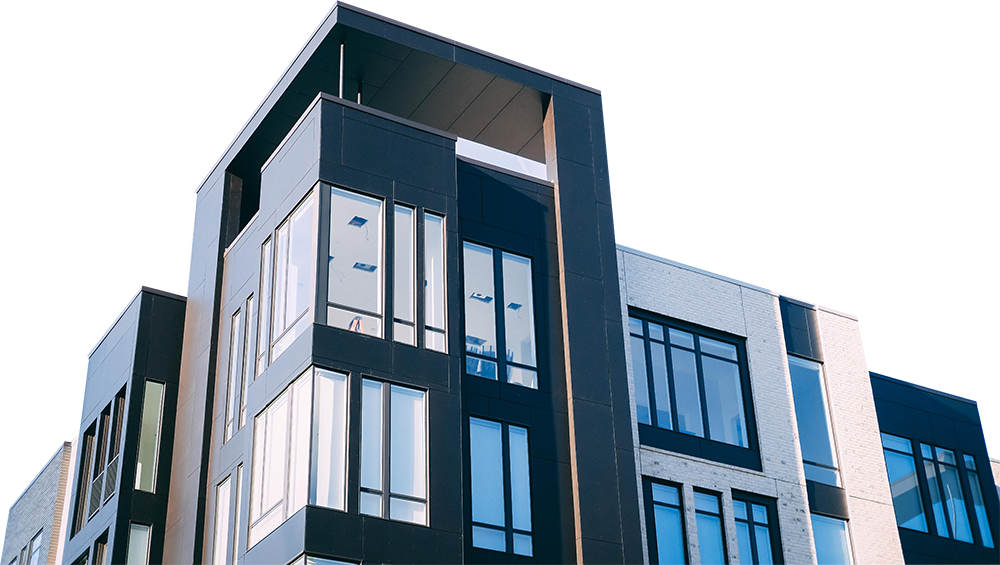
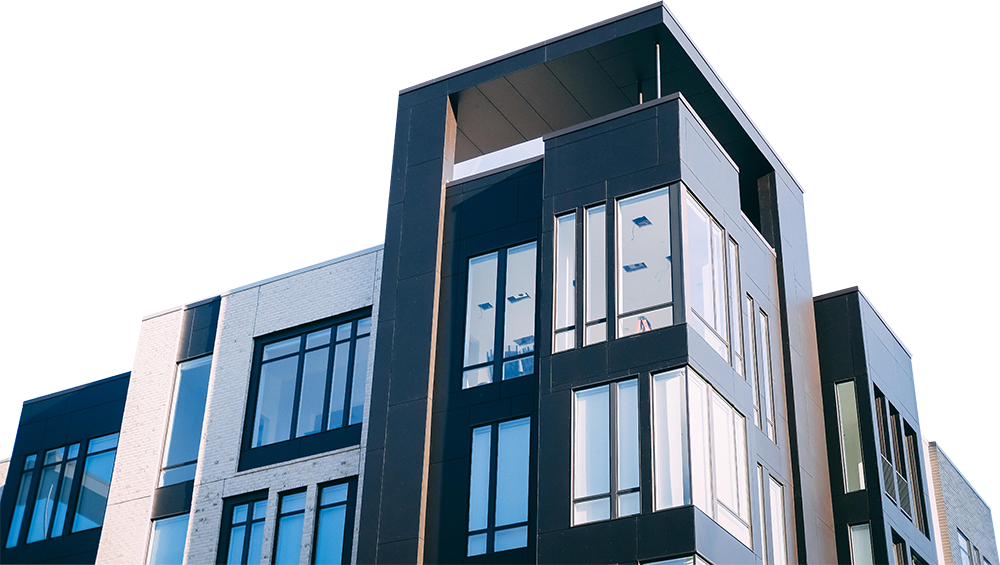
sub visual 좌우변경

diff --git a/scss/_location.scss b/scss/_location.scss
@@ -4,9 +4,9 @@
             .inner {
                 img {
                     position: absolute;
-                    bottom: -1100px;
+                    bottom: -400px;
                     right: 0;
-                    width: 100%;
+                    width: 55%;
                     height: auto;
                 }
             }
